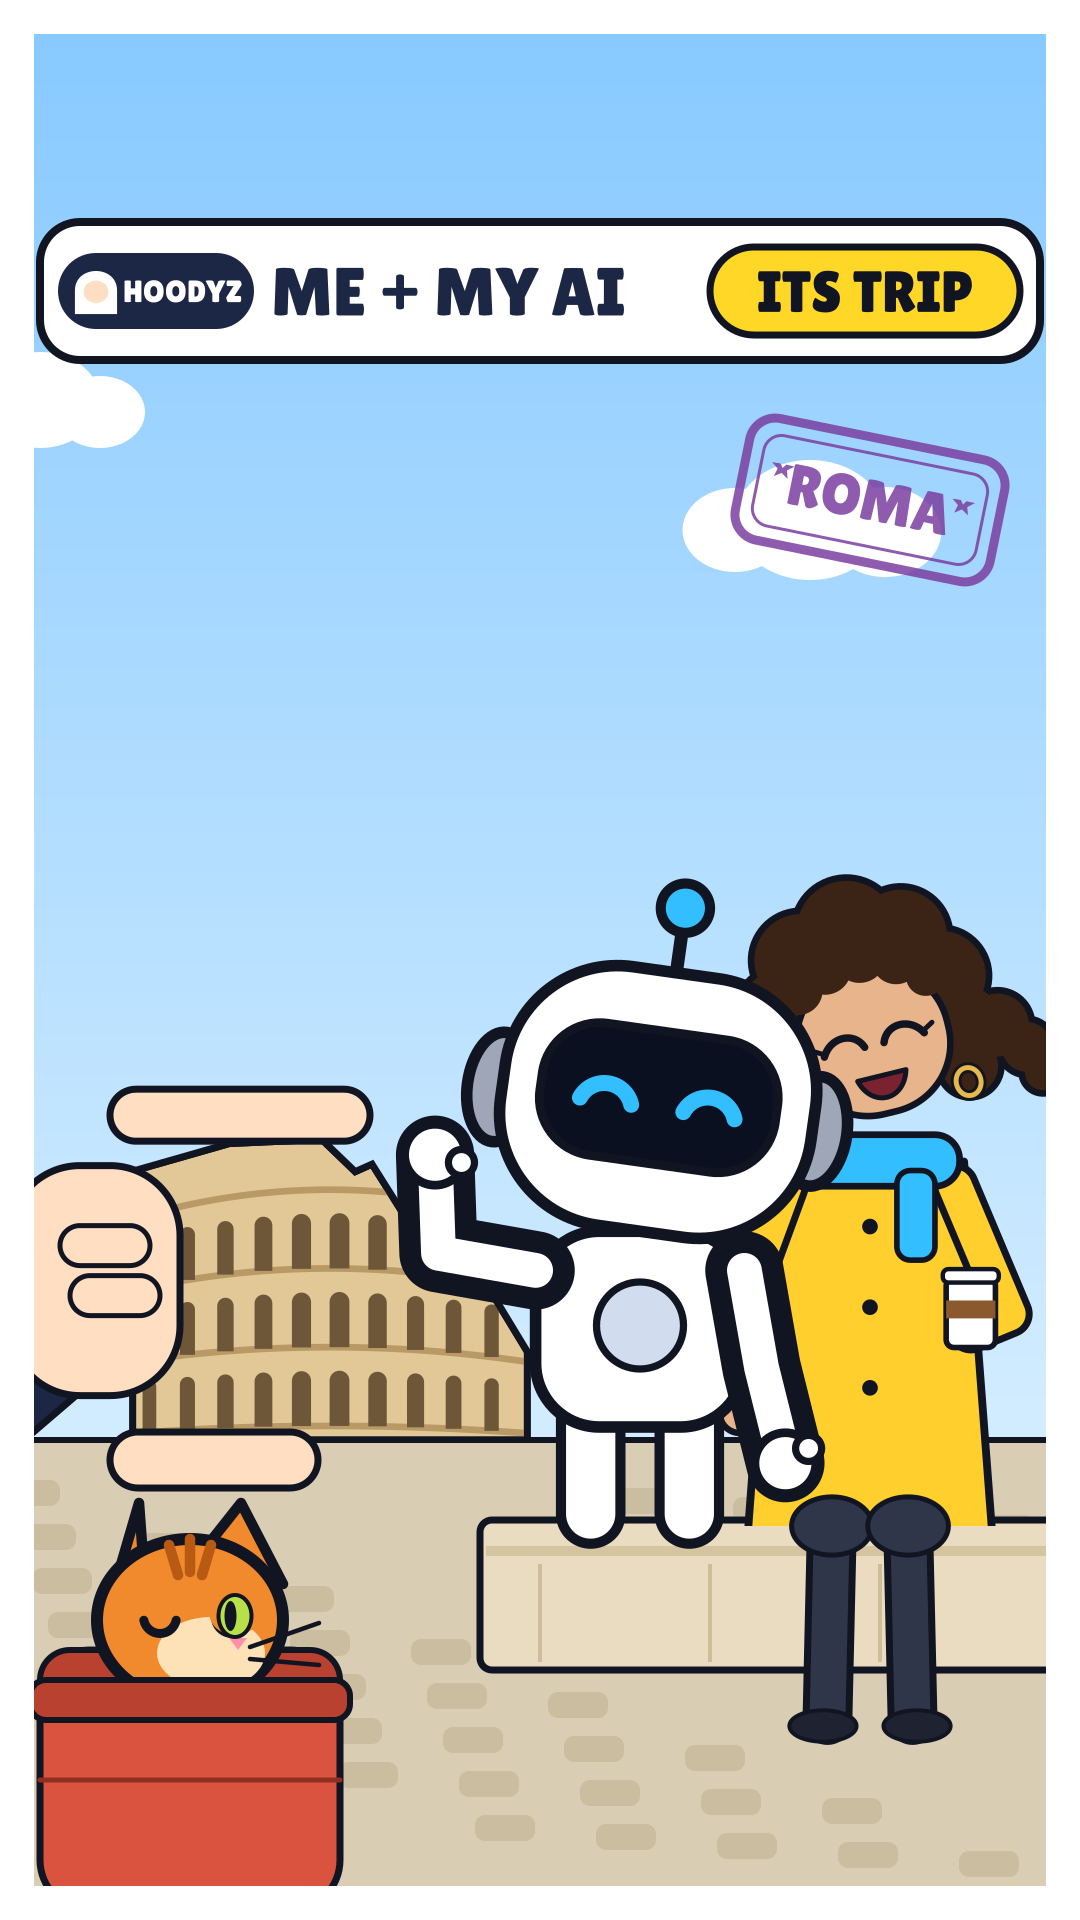
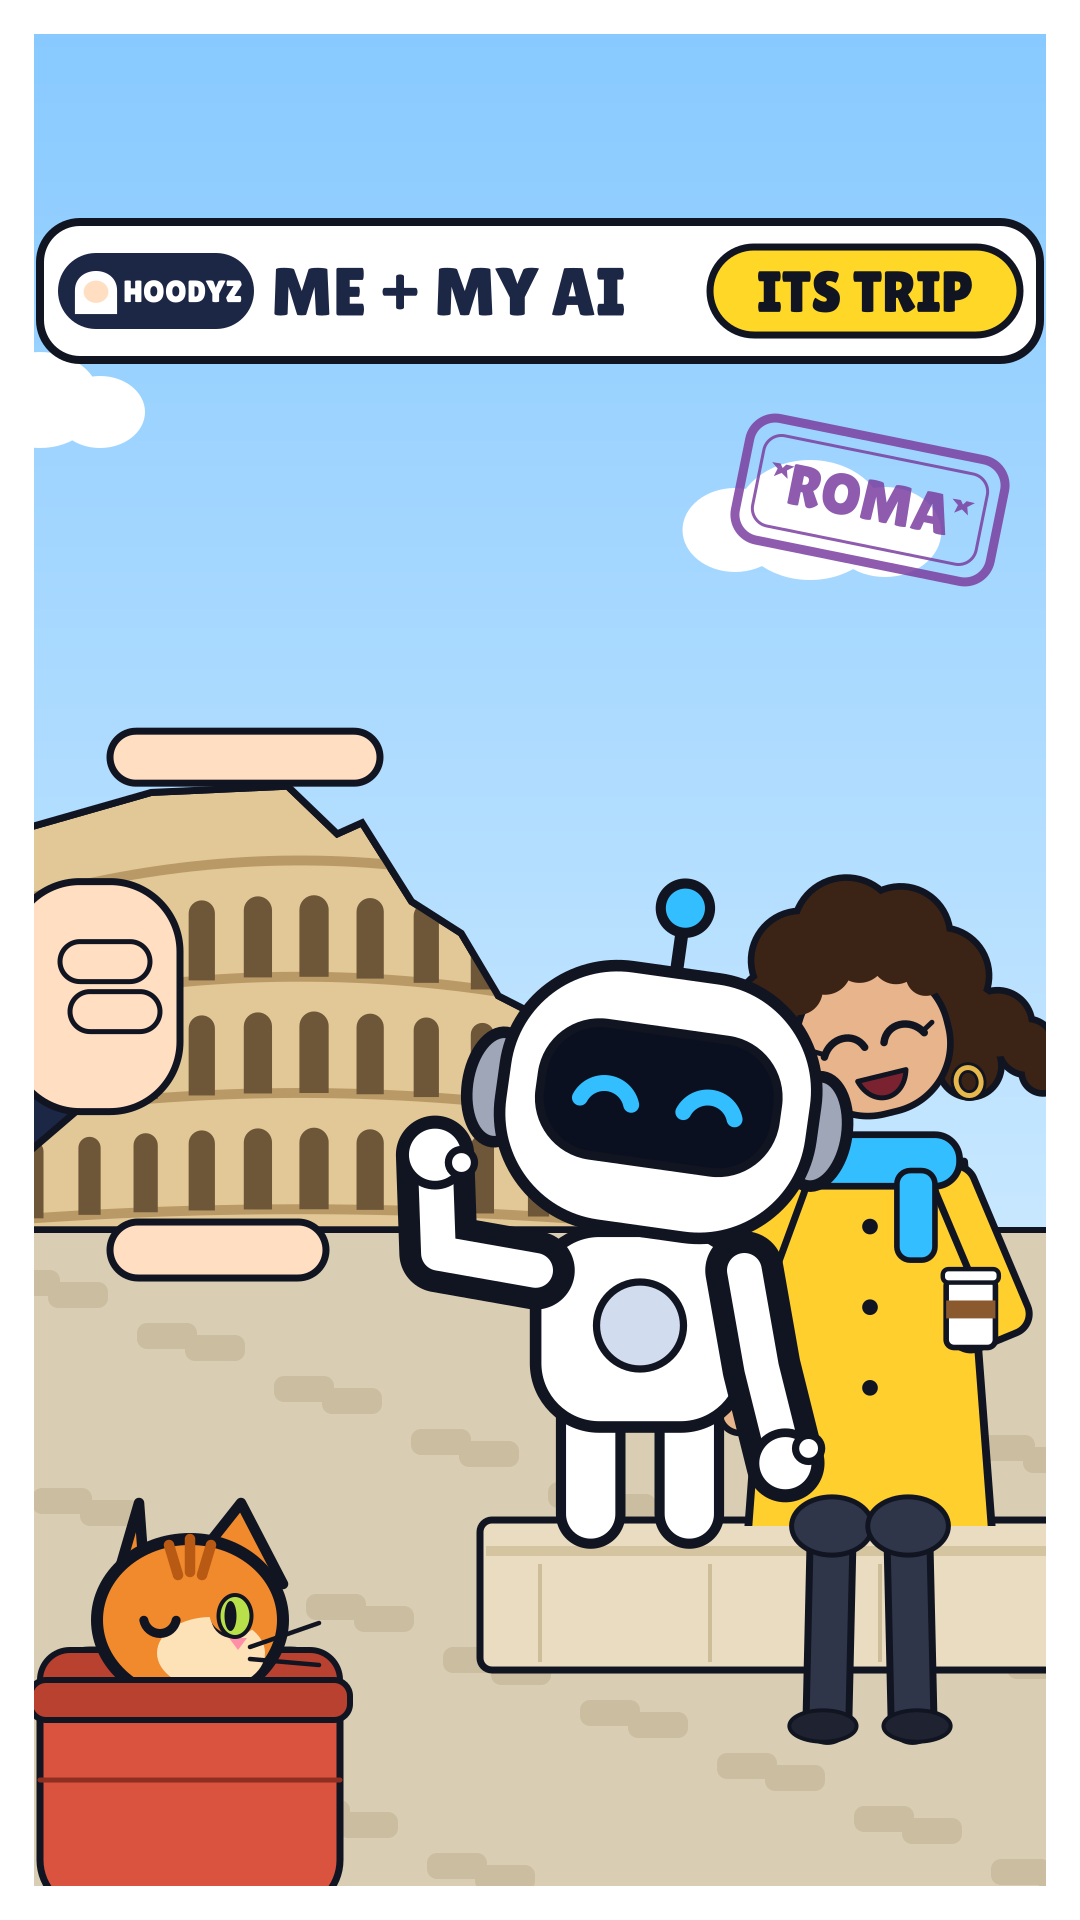
Perfect Trip Rome photo: the Colosseum bigger and higher (raised horizon), the pinch scaled to it
Claude-Session: https://claude.ai/code/session_01ED8DLRS3kXn1pdhXqYBM3Q

Changed region(s): [[0.0306, 0.375, 0.5194, 0.7812], [0.8861, 0.625, 0.9778, 0.75]]

diff --git a/perfect-selfie/places.py b/perfect-selfie/places.py
@@ -92,7 +92,7 @@ def egypt(c, f=0):
         ell(c, x, y + r * .5, r * 1.6, r * .5); fs(c, hx('efc985') if i % 2 else hx('f6dba0'), 5)
 
 # ---------------- Rome: the Colosseum, its broken top stepping down to one side
-def rome(c, f=0, s=1.0, cx=540):
+def rome(c, f=0, s=1.0, cx=540, horizon=None):
     """s, cx: the Colosseum's size and centre on the horizon (s < 1: further away, e.g. small enough to pinch)."""
     sky(c, '86c9ff', 'd6eeff'); clouds(c, f, ((150, 400, 60), (920, 520, 75)))
     ST, ST_D, ST_L = hx('e2c896'), hx('b99a66'), hx('efdcb4')
@@ -105,7 +105,8 @@ def rome(c, f=0, s=1.0, cx=540):
         c.move_to(left, base); c.line_to(left, top + 40 + cy(left))
         for x, dy in edge: c.line_to(x, top + 40 + cy(x) + dy)
         c.line_to(right, base + 0); c.close_path()
-    c.save(); c.translate(cx, base); c.scale(s, s); c.translate(-540, -base)          # the Colosseum's own frame
+    hz = base if horizon is None else horizon                                # where the square meets the sky
+    c.save(); c.translate(cx, hz); c.scale(s, s); c.translate(-540, -base)          # the Colosseum's own frame
     c.save(); outline(); c.clip_preserve(); fs(c, ST, 7 / s)
     for t in range(tiers):
         y0 = top + t * th
@@ -120,9 +121,9 @@ def rome(c, f=0, s=1.0, cx=540):
             c.set_source_rgb(*hx('6e5638')); c.fill()
     c.restore()
     outline(); c.set_source_rgb(*INK); c.set_line_width(7 / s); c.stroke(); c.restore()
-    c.rectangle(0, base, W, H - base); c.set_source_rgb(*hx('d9cdb3')); c.fill()
-    c.move_to(0, base); c.line_to(W, base); c.set_source_rgb(*INK); c.set_line_width(6); c.stroke()
-    for i in range(40): rr(c, (i * 137) % 1080, base + 40 + (i * 53) % 380, 60, 26, 10); c.set_source_rgb(*hx('cbbd9f')); c.fill()
+    c.rectangle(0, hz, W, H - hz); c.set_source_rgb(*hx('d9cdb3')); c.fill()
+    c.move_to(0, hz); c.line_to(W, hz); c.set_source_rgb(*INK); c.set_line_width(6); c.stroke()
+    for i in range(48): rr(c, (i * 137) % 1080, hz + 40 + (i * 53) % (H - hz - 60), 60, 26, 10); c.set_source_rgb(*hx('cbbd9f')); c.fill()
 
 PLACES = dict(pisa=pisa, paris=paris, giza=egypt, rome=rome)
 STAMP = dict(pisa=('PISA', 'c8323c', -.18, 220), paris=('PARIS', '2f5fb3', .14, 870), giza=('GIZA', 'b5651d', -.1, 240), rome=('ROMA', '7b3fa0', .2, 870))   # name, ink, tilt, x (kept off the landmark)

diff --git a/perfect-selfie/photo.py b/perfect-selfie/photo.py
@@ -48,8 +48,8 @@ def pinch_hand(c, x0, y_top, y_bot, reach):
 
 def photo(c, f=0, label='ITS TRIP', stamp_k=1.0):
     """Rome, the final photo. Reading order: the couple; Hoody's big hand pinching the (far, small) Colosseum; the cat in his backpack."""
-    CS, CX = .42, 330                                                    # the Colosseum, far away at the left: small enough to pinch
-    P.rome(c, f, s=CS, cx=CX)
+    CS, CX, HZ = .62, 300, 1230                                          # the Colosseum, far off at the left, on a raised horizon: big, but pinchable
+    P.rome(c, f, s=CS, cx=CX, horizon=HZ)
     TOP = 1520
     ledge(c, 480, 1110, TOP)
     es, ex = 1.12, 870
@@ -60,8 +60,8 @@ def photo(c, f=0, label='ITS TRIP', stamp_k=1.0):
         ell(c, ex + q * 34 * es, TOP + 6, 36 * es, 26 * es); fs(c, E.TROUS, 5)
         ell(c, ex + q * 42 * es, TOP + 206, 30 * es, 14 * es); fs(c, E.SHOE, 4)
     A.myai(c, 640, TOP - 6, 1.45, eye='happy', arms=('wave', 'down'), tilt=8)
-    base = P.GY - 60; top = base - (base - 700) * CS                     # the small Colosseum's top and base
-    pinch_hand(c, 120, top - 10, base + 12, CX - 70)
+    base = HZ; top = HZ - (P.GY - 60 - 700) * CS                         # the Colosseum's top and base on screen
+    pinch_hand(c, 120, top - 10, base + 12, CX - 30)
     backpack_cat(c, 190, 1660, 1.0)
     P.stamp(c, 'rome', k=stamp_k)
     c.rectangle(0, 0, W, H); c.rectangle(34, 34, W - 68, H - 68); c.set_fill_rule(cairo.FILL_RULE_EVEN_ODD); c.set_source_rgb(*WHITE); c.fill()
